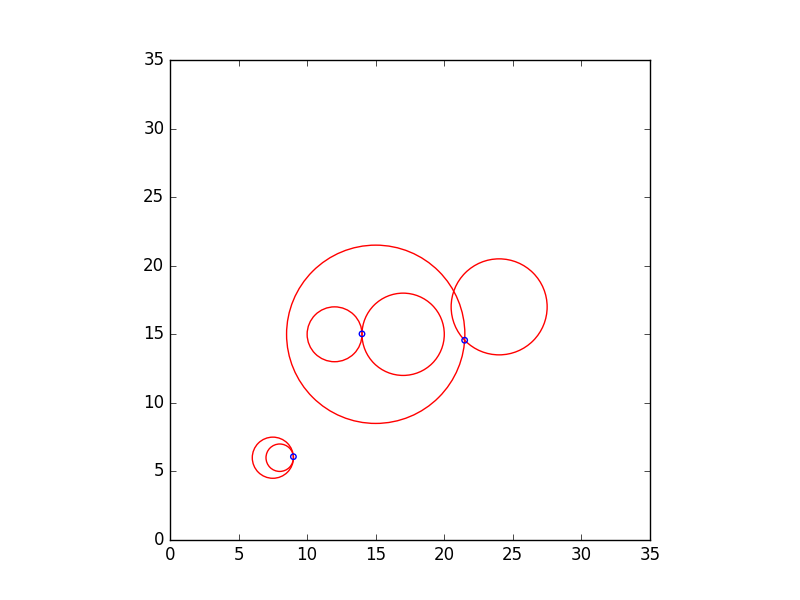
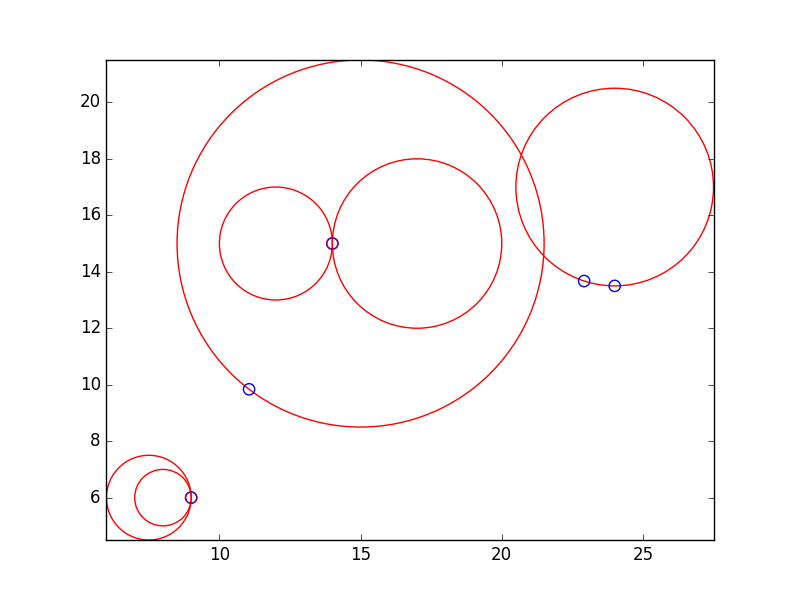
auto threshold determination difficult. also bug with loss function being sys.maxsize

diff --git a/multilateration.py b/multilateration.py
@@ -34,11 +34,6 @@ def opt_func_dec(x_list, r_list, lat_id_list):
     x_list_copy = deepcopy(x_list)
     r_list_copy = deepcopy(r_list)
 
-    # x_array_list = []
-    # for x, y in x_list:
-    #     x_array_list.append(np.array([x, y]).T)
-    # print(x_array_list)
-
     def loss_func_ord(p, norm_ord=2):
         l = sum(
             (single_loss_ord(p, x, r, norm_ord=norm_ord) for x, r in zip(x_list_copy, r_list_copy))
@@ -160,9 +155,22 @@ def determine_num_lat_clusters(circles, clustering_threshold=0.2):
         perform_hcluster(hcluster_points, clustering_threshold=clustering_threshold)
     return num_lat_clusters, enum_clusters, cluster_means, circle_point_id_list
 
+def get_local_lims(circles):
+    max_x = -sys.maxsize
+    min_x = +sys.maxsize
+    max_y = -sys.maxsize
+    min_y = +sys.maxsize
+    for (x, y), r, lat_cluster_id in circles:
+        max_x = max(x + r, max_x)
+        min_x = min(x - r, min_x)
+        max_y = max(y + r, max_y)
+        min_y = min(y - r, min_y)
+
+    return (min_x, max_x), (min_y, max_y)
+
 def multiple_multilateration(circles_ref, xlim=(0,10), ylim=(0,10),
                              num_lat_clusters=2, opt_trials=7, recluster_iters=5,
-                             clustering_threshold=5.):
+                             clustering_threshold=4.5, verbose=False):
 
     circles_copy = deepcopy(circles_ref)
     num_circles = len(circles_copy)
@@ -171,19 +179,6 @@ def multiple_multilateration(circles_ref, xlim=(0,10), ylim=(0,10),
     options = {'disp': False}
 
     # ------------------- Begin Helper Functions -------------------
-
-    def get_local_lims(circles):
-        max_x = -sys.maxsize
-        min_x = +sys.maxsize
-        max_y = -sys.maxsize
-        min_y = +sys.maxsize
-        for (x, y), r, lat_cluster_id in circles:
-            max_x = max(x + r, max_x)
-            min_x = min(x - r, min_x)
-            max_y = max(y + r, max_y)
-            min_y = min(y - r, min_x)
-
-        return (min_x, max_x), (min_y, max_y)
 
     def multilat(circles, use_local_lims=False, p0_from_hcluster=None):
 
@@ -258,7 +253,6 @@ def multiple_multilateration(circles_ref, xlim=(0,10), ylim=(0,10),
         return max_delocalized_circle, max_delocalized_circle_index
 
     def reassign_circle_clusters(circles, min_fun_vals, epsilon=0.25):
-
         for i, ((x, y), r, lat_cluster_id) in enumerate(circles):
             # second_min_lat_cluster unused - might be useful later for prob. epsilon swap
             min_lat_cluster, _ = argmin_p(circles[i], min_fun_vals)
@@ -303,7 +297,7 @@ def multiple_multilateration(circles_ref, xlim=(0,10), ylim=(0,10),
         min_fun_vals_list_prev = min_fun_vals_list
         min_fun_vals_list = []
         for j, lat_cluster in enumerate(lat_clusters):
-            print(lat_cluster)
+            if verbose: print('Cluster # %d:' % (j,), lat_cluster)
             # Assume all clusters have been assigned some circles at the beginning
             if not lat_cluster and i > 0:
                 # If no circles in cluster, i.e. the circles were all stolen away
@@ -320,7 +314,8 @@ def multiple_multilateration(circles_ref, xlim=(0,10), ylim=(0,10),
                 min_fun_vals = {
                     'loss': sys.maxsize,    # Essentially infinite loss
                     'p': p0_list[j],        # Use initial values of p from hierarchical (avg of points)
-                    'circles': [],          # Circles are usually stored in lat_cluster. However, is an empty list so deepcopy(lat_cluster) is [].
+                    'circles': [],          # Circles are usually stored in lat_cluster.
+                                            # However, is an empty list so deepcopy(lat_cluster) is [].
                     'index': j              # Cluster # j
                 }
                 min_fun_vals_list.append(min_fun_vals)
@@ -341,16 +336,14 @@ def multiple_multilateration(circles_ref, xlim=(0,10), ylim=(0,10),
         if total_loss < best_total_loss:
             best_total_loss = total_loss
             best_fun_vals_list = deepcopy(min_fun_vals_list)
-        # circles_list: list of lateration clusters with circles_copy in them
-        print('[multiple_multilateration] min_fun_vals_list', min_fun_vals_list)
+
+        if verbose: print('min_fun_vals_list', min_fun_vals_list)
         plot_circles(circles_copy, min_fun_vals_list, xlim=xlim, ylim=ylim, 
                      iteration=i, clear_dir_on_new=False)
         reassign_circle_clusters(circles_copy, min_fun_vals_list)
 
-    # print(circles_copy)
-    # print(min_fun_vals_list)
-
-    print(circles_copy)
+    # if verbose:
+    #     print(circles_copy)
 
     # --- Does not work well ---
     """
@@ -380,12 +373,53 @@ def multiple_multilateration(circles_ref, xlim=(0,10), ylim=(0,10),
 
     """
 
+    for best_fun_vals in best_fun_vals_list:
+        if len(best_fun_vals['circles']) == 2:
+            print(best_fun_vals['circles'])
+            ix0, ix1, case = get_circle_intersections(*best_fun_vals['circles'])
+            if case == 'intersect':
+                print('intersections:', ix0, ix1)
+                best_fun_vals['p'] = [ix0, ix1]
+
     return best_fun_vals_list, best_total_loss
 
+def locate_intersections(circles_ref, xlim=None, ylim=None, num_lat_clusters=None, clustering_threshold=None,
+                         verbose=False):
+
+    # assert circles_ref
+    assert (xlim is not None and ylim is not None) or (xlim is None and ylim is None)
+
+    if xlim is None or ylim is None:
+        xlim, ylim = get_local_lims(circles_ref)
+        if verbose: print('[minlateration: locate_intersections] xlim, ylim:', xlim, ylim)
+
+    r_avg = 0
+    circles_np = []
+    for (x, y), r, lat_cluster_id in circles_ref:
+        circles_np.append([pair_to_np([x, y]), r, lat_cluster_id])
+        r_avg += r
+    r_avg /= len(circles_np)
+
+    if clustering_threshold is None:
+        diameter = max(xlim[1]-xlim[0], ylim[1]-ylim[0])
+        # threshold: determine based on diamater of area covered
+        # and circle average sizes
+        clustering_threshold = diameter / (r_avg*3)
+        if verbose: print('[minlateration: locate_intersections] auto cluster threshold: %f'
+                          % (clustering_threshold,))
+
+    best_fun_vals_list, best_total_loss = \
+        multiple_multilateration(circles_np, xlim=xlim, ylim=ylim, num_lat_clusters=num_lat_clusters,
+                                 opt_trials=15, recluster_iters=5, clustering_threshold=clustering_threshold,
+                                 verbose=verbose)
+
+    if verbose: print('Best total loss:', best_total_loss)
+
+    return best_fun_vals_list, best_total_loss, xlim, ylim
 
 if __name__ == '__main__':
-    xlim = (0, 35)
-    ylim = (0, 35)
+    xlim = None
+    ylim = None
 
     # Test case 0:
     # circles_ref = [
@@ -421,40 +455,31 @@ if __name__ == '__main__':
     # ]
 
     # Test case 2:
-    circles_ref = [
-        [[15, 15], 6.5, None],
-        [[12, 15], 2, None],
-        [[17, 15], 3, None],
-        [[24, 17], 3.5, None],
-
-        [[8, 6], 1, None],
-        [[7.5, 6], 1.5, None],
-    ]
-
-    # Test case 3:
     # circles_ref = [
-    #     [[6, 27], 3, None],
-    #     [[3, 25], 2, None],
-    #     [[0, 30], 4, None],
+    #     [[15, 15], 6.5, None],
+    #     [[12, 15], 2, None],
+    #     [[17, 15], 3, None],
+    #     [[24, 17], 3.5, None],
     #
-    #     [[9, 27], 3, None],
-    #     [[6, 25], 2, None],
-    #     [[3, 30], 4, None],
+    #     [[8, 6], 1, None],
+    #     [[7.5, 6], 1.5, None],
     # ]
 
-    circles_ref = [[pair_to_np([x, y]), r, lat_cluster_id] for (x, y), r, lat_cluster_id in circles_ref]
+    # Test case 3:
+    circles_ref = [
+        [[6, 27], 3, None],
+        [[3, 25], 2, None],
+        [[0, 30], 4, None],
 
-
+        [[9, 27], 3, None],
+        [[6, 25], 2, None],
+        [[3, 30], 4, None],
+    ]
     plot_circles(circles_ref, None, xlim=xlim, ylim=ylim, title='plotcircles init')
 
-    num_lat_clusters = None
-    # for i, circle in enumerate(circles_ref):
-    #     circle[2] = (i+2) % num_lat_clusters
-
-    best_fun_vals_list, best_total_loss = \
-        multiple_multilateration(circles_ref, xlim=xlim, ylim=ylim, num_lat_clusters=num_lat_clusters,
-                                                  opt_trials=15, recluster_iters=4, clustering_threshold=5)
+    best_fun_vals_list, best_total_loss, xlim, ylim = \
+        locate_intersections(circles_ref, xlim=xlim, ylim=ylim, num_lat_clusters=None,
+                             clustering_threshold=None, verbose=True)
 
     plot_circles(circles_ref, best_fun_vals_list, xlim=xlim, ylim=ylim)
-    print('Best total loss:', best_total_loss)
     # print(best_fun_vals_list)

diff --git a/circle_intersection.py b/circle_intersection.py
@@ -7,7 +7,6 @@ def get_circle_intersections(circle0, circle1):
     c0, r0, _ = circle0
     c1, r1, _ = circle1
 
-    # d = math.sqrt((x0-x1)**2 + (y0-y1)**2)
     d = np.linalg.norm(c0-c1)
 
     if d > (r0 + r1):
@@ -21,16 +20,20 @@ def get_circle_intersections(circle0, circle1):
     a = (r0**2 - r1**2 + d**2) / (2*d)
     h = math.sqrt(r0**2 - a**2)
 
-    # p2x = x0 + a*(x1 - x0) / d
-    # p2y = y0 + a*(y1 - y0) / d
+    # middle
     p2 = c0 + a*(c1 - c0) / d
 
-    # p3x_top = p2x + h*(y1 - y0) / d
-    # p3y_top = p2y + h*(x1 - x0) / d
-    p3_top = p2 + h*(c1 - c0) / d
+    # intersections
+    p3_top, p3_bot = np.zeros_like(p2), np.zeros_like(p2)
 
-    # p3x_bot = p2x + h * (y1 - y0) / d
-    # p3y_bot = p2y + h * (x1 - x0) / d
-    p3_bot = p2 + h * (c1 - c0) / d
+    # x coord
+    p3_top[0] = p2[0] + h*(c1[1] - c0[1]) / d
+    # y coord
+    p3_top[1] = p2[1] - h*(c1[0] - c0[0]) / d
+
+    # x coord
+    p3_bot[0] = p2[0] - h*(c1[1] - c0[1]) / d
+    # y coord
+    p3_bot[1] = p2[1] + h*(c1[0] - c0[0]) / d
 
     return p3_top, p3_bot, 'intersect'

diff --git a/plot_circles.py b/plot_circles.py
@@ -26,8 +26,8 @@ def plot_circles(circles, min_fun_vals, xlim=(0, 10), ylim=(0, 10),
 
     circle_plots = []
 
-    for (x, y), r, lat_cluster_id in circles:
-        circle_plot = plt.Circle((x, y), r, color='r', fill=False)
+    for c, r, lat_cluster_id in circles:
+        circle_plot = plt.Circle(c, r, color='r', fill=False)
         circle_plots.append(circle_plot)
 
     if min_fun_vals is not None:
@@ -35,7 +35,7 @@ def plot_circles(circles, min_fun_vals, xlim=(0, 10), ylim=(0, 10),
             if isinstance(min_fun_val['p'], list):
                 for p in min_fun_val['p']:
                     circle_plots.append(
-                        plt.Circle(p, 0.2, color='blue', fill=False)
+                        plt.Circle(p, 0.2, color='purple', fill=False)
                     )
             else:
                 circle_plots.append(

diff --git a/sandbox.py b/sandbox.py
@@ -1,5 +1,5 @@
 from plot_circles import plot_circles
-from multiple import *
+from multilateration import *
 
 
 def circle_sandbox(num_lat_clusters=5, opt_iters=12, recluster_iters=5):
